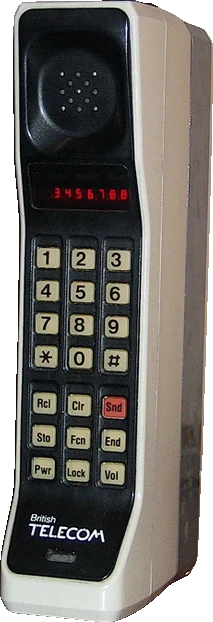
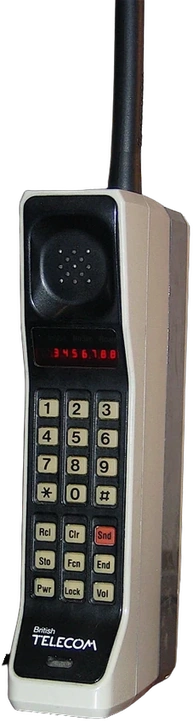
02 round 7 — dynatac promoted: the object gets its antenna back
Dustin ruled on alt/dynatac-ruling.png. The birefnet cut with round 6's cord clip
replaces the isnet master: 213x622 -> 227x846.

The price, measured before the ruling rather than after it. gravity.js normalises by
AREA, so the piece costs the BODY 16.7% height / 11.5% width. The SHELF normalises by
HEIGHT (index.js THUMB 80/64), which round 6 never priced and which is the larger of
the two: the body draws 26.2% shorter there, 17x47px at THUMB 64. It still reads at
every drawn size, and dynatac is a 1983 row, so its antenna stands against a lit sky
rather than the deep head's near-black.

Re-sourcing was checked and is dead. Commons holds exactly three DynaTAC photographs;
the other two are held in a hand at Martin Cooper's ear and gripped in a phone shop,
both failing 05's R1 and the cut-out rule. The 399x977 frame already in the record is
the best free photograph of this object that exists.

THE CHAIN NEEDED A FOURTH STEP. Round 6 wrote it as promote02 -> bake_sprites ->
gates, and site/thumb/ is a SECOND BAKE (ticket 10) that bake_sprites does not touch.
Without bake_index.py the shelf keeps the old thumbnail and thumbs.js keeps the old
box: dynatac:[55,160] -> [43,160] is the antenna narrowing the aspect, and the shelf
would have drawn the new sprite scaled to the old one's ratio. Same omission would
have hit vhs in round 4 had its bake not been run by hand.

sweep10 localhost 44/44 · sweep11i localhost 26/26.

diff --git a/site/thumbs.js b/site/thumbs.js
@@ -203,7 +203,7 @@ window.THUMBS = {
   tr808:[271,160],
   cochlear:[371,160],
   cd:[138,160],
-  dynatac:[55,160],
+  dynatac:[43,160],
   swatch:[93,160],
   dx7:[149,160],
   mac:[173,160],
